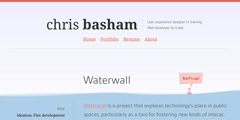
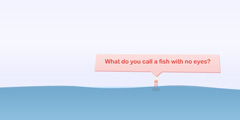
Created CSS animations for Daybreak and Waterwall hover states.

diff --git a/public/assets/css/master.css b/public/assets/css/master.css
@@ -295,4 +295,47 @@ footer #colophon li:first-child {
 	
 img.typekit-badge {
 	display: none !important; }
+
+
+
+
+
+.feature.portfolio figure {
+	height: 326px; }
+
+.feature.portfolio figure span {
+	display: block;
+	position: absolute;
+	width: 640px;
+	height: 320px;
+	-webkit-transition-duration: 500ms;
+	-moz-transition-duration: 500ms; }
+
+
+
+.energy-safe-kids figure span.a {
+	background: url(/assets/i/esk-pre-640.jpg) no-repeat; }
+
+
+.waterwall figure span.a {
+	background: url(/assets/i/waterwall-pre-640a.jpg) no-repeat; }
+
+.waterwall figure span.b {
+	-webkit-transition-property: opacity;
+	-moz-transition-property: opacity;
+	background: url(/assets/i/waterwall-pre-640b.jpg) no-repeat; }
 	
+.waterwall figure a:hover span.b {
+	opacity: 0; }
+
+
+.daybreak figure span.a {
+	background: url(/assets/i/daybreak-pre-640a.jpg) no-repeat 0 -1400px;
+	-webkit-transition-property: background-position;
+	-moz-transition-property: background-position; }
+
+.daybreak figure span.b {
+	background: url(http://daybreak.bash.am/images/tree.png) no-repeat 200px 40px; }
+
+.daybreak figure a:hover span.a {
+	background-position: 0 0; }
